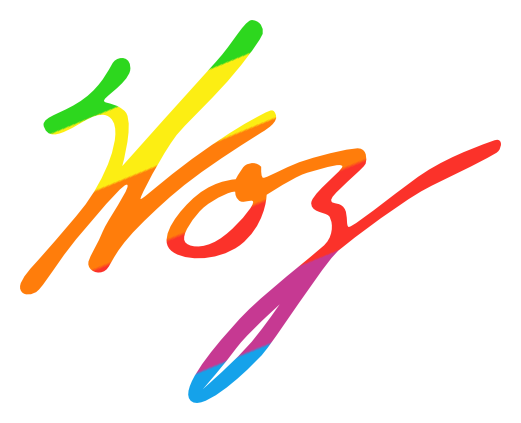
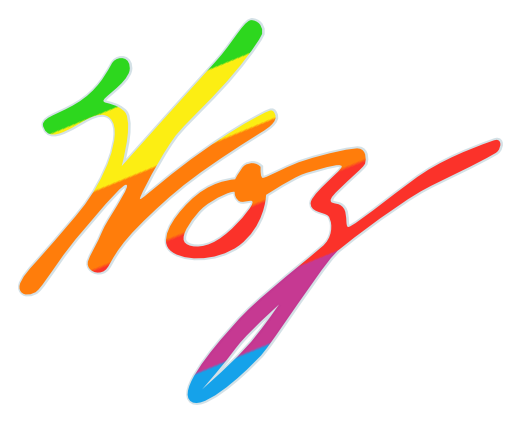
Ading border to signature, small fixes on text, link to imdb

diff --git a/html/index.html b/html/index.html
@@ -47,9 +47,9 @@ body {
     <h2>About the movie</h2>
     <p>Woz is an independent movie about <strong>Steve Wozniak</strong>, the electronic engineer behind Apple I and Apple II.<br>
     About how a young kid ends up building a revolutionary product just for the sake of fun!</p>
-    <p>The movie will be founded through a crowdfounding campaign, and will be released free online. Most probably will be an Open Movie</p>
-    <p>Running a campaign for a movie is an expensive business, that’s why I'm accepting donations.</p>
-    <p>I can't wait to share more about this project once the campaign is running.</p>
+    <p>The movie will be founded through a crowdfounding campaign, and will be released free online. Most probably will be an Open Movie.<br>
+    Running a campaign for a movie is an expensive business, that’s why I'm accepting donations.<br>
+    I can't wait to share more about this project once the campaign is running.</p>
     <h3>Expenses</h3>
     <ul>
         <li>Legal council: $2000.-</li>
@@ -70,13 +70,13 @@ body {
     
     <h2>Donors</h2>
     <ul>
-        <li>-</li>
+        <li>Be the first!</li>
     </ul>
     
     <h2>About me</h2>
     <p>At the age of six my father attempted to teach me Coding, since then I love computer science, but after seen Pixar's "Toy Story"
     I fell in love with computer generated graphics. My firsts steps where on a Macintosh Classic II capable to reproduce graphics instead of just characters (Isn't that great?),
-    I went to college to study Filmmaking, and from the mix came out a Developer working on the film industry.<br>
+    I went to college to study Filmmaking, and from the mix came out a Developer working on the <a href="http://www.imdb.com/name/nm4550110" target="_blank">film industry</a>.<br>
     This will be my first serious Film project, I hope you join the journey.</p>
     
     <p>Eibriel<br>eibriel@eibriel.com</p>
